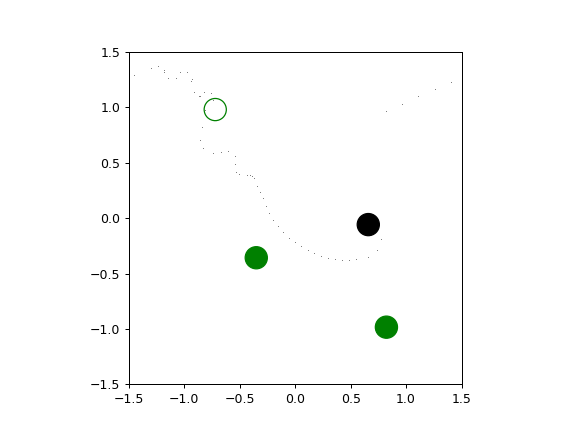
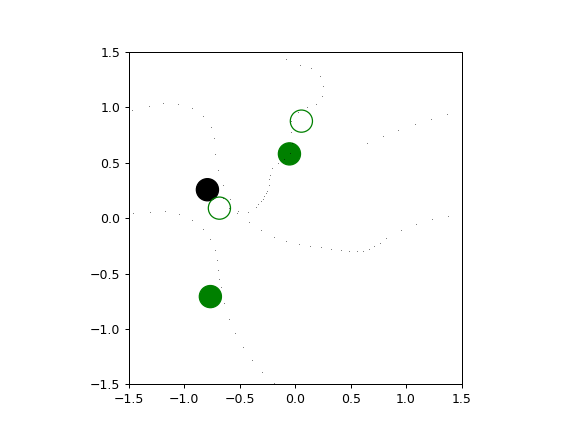
Fixed the trails not showing up on all robots in animate_best.py

diff --git a/evolve.py b/evolve.py
@@ -24,10 +24,10 @@ DRAW_EVERY_NTH_GENERATION = 5
 
 # EVOLUTION PARAMETERS
 N_TRIALS = 5
-POP_SIZE = 5       #originally 25
+POP_SIZE = 6       #originally 25
 SITUATION_DURATION = 15.0
 DT = 0.02
-PER_GROUP = 5
+PER_GROUP = 4
 ROBOT_FOOD_WORTH = 20.0
 NATURAL_FOOD_WORTH = 20.0
 NUMBER_OF_NATURAL_FOOD = 2
@@ -64,6 +64,7 @@ def random_light_position(robots):
             if robot_close:
                 break
         if attempts > 100000:
+            print("Failed to find new food position, returning a colliding one")
             return x, y
     return x, y
 
@@ -295,13 +296,13 @@ def generation():
 
     # parallel evaluation of fitnesses (in parallel using multiprocessing)
     
-    #with Pool() as p:
-     #   pop = p.map(evaluate_fitness, pop)
+    with Pool() as p:
+        pop = p.map(evaluate_fitness, pop)
 
     ## sequential evaluation of fitness
 
-    for group in range(len(pop)):
-        pop[group] = evaluate_fitness(pop[group])
+    """for group in range(len(pop)):
+        pop[group] = evaluate_fitness(pop[group])"""
 
     # the fitness of every individual controller in the population
     fitnesses = []
@@ -416,6 +417,8 @@ def evolve():
         if generation_index % DRAW_EVERY_NTH_GENERATION == 0:
             fitness_plots(savepath, pop_fit_history)
             plot_population_genepool(savepath, pop)
+        if generation_index >= 150:
+            break
 
 
 if __name__ == '__main__':

diff --git a/animate_best.py b/animate_best.py
@@ -78,9 +78,8 @@ def update(frame):
         xy_data[robot_index][0] =  rxs[robot_index][0 if current_it - TRAIL_LENGTH < 0 else current_it - TRAIL_LENGTH:current_it]
         xy_data[robot_index][1] =  rys[robot_index][0 if current_it - TRAIL_LENGTH < 0 else current_it - TRAIL_LENGTH:current_it]
 
-    for temp_ln in ln_list:
-        for robot_index in num_of_controllers:
-            temp_ln[0].set_data(xy_data[robot_index][0],xy_data[robot_index][1])
+    for temp_in, temp_ln in enumerate(ln_list):
+        temp_ln[0].set_data(xy_data[temp_in][0],xy_data[temp_in][1])
 
     fc.set_data(food_positions[current_it, :, 0],
                 food_positions[current_it, :, 1])
